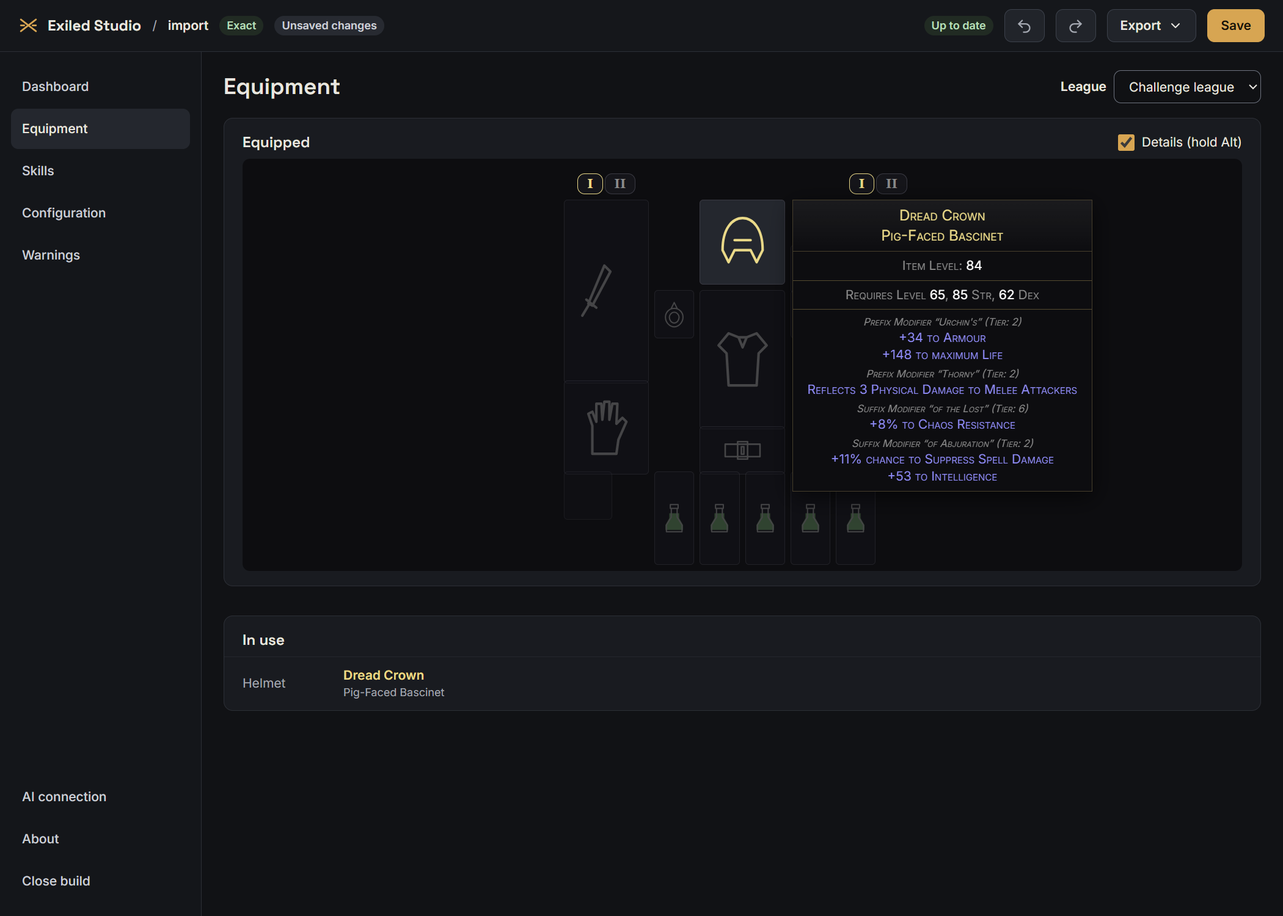
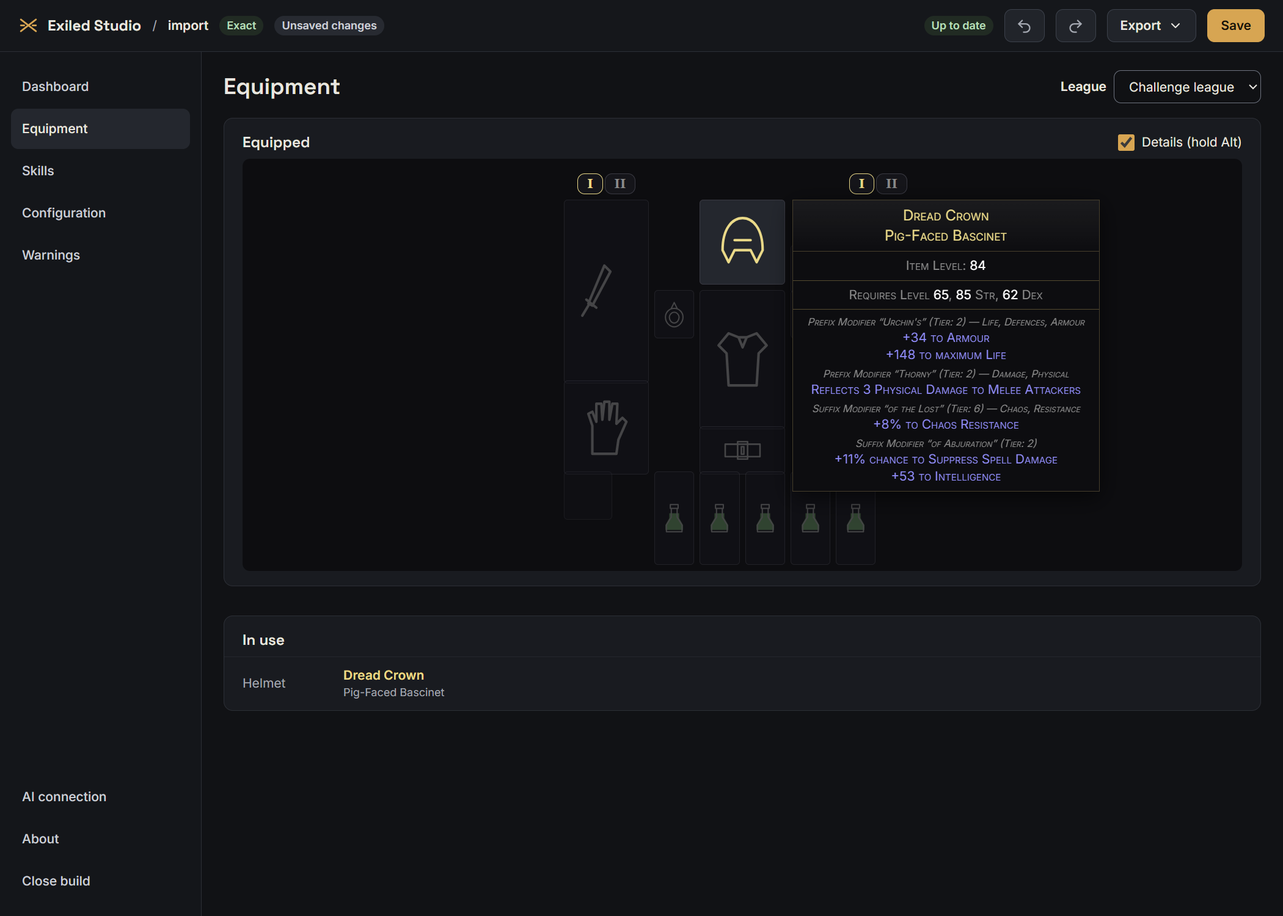
B-2 PR 2: mod tag names in the Alt headers; tiers checked on poedb
- TextRules.mod_tag_names: a per-game rule naming the tags the Alt view
  shows (unlisted tags hidden); PoE1's list in parity-cli, from real
  Ctrl+Alt+C copies of current-game items ("Life, Defences, Armour";
  resource and physical_damage hidden) and poedb, partly unconfirmed
- Game-truth tests: the six helmet tiers match poedb's Str/Dex helmet
  tables; a tag test
- Docs: Q-B2-2 research, the plan's header quote corrected, the
  maintainer's reminder tasks (Ctrl+Alt+C copies, bundle rebuild), the
  maintainer's answer to Q-UX-1 (the main skill), screenshot retaken

Changed region(s): [[0.619, 0.2147, 0.8357, 0.5213]]

diff --git a/crates/loom-app/tests/game_truth_affixes.rs b/crates/loom-app/tests/game_truth_affixes.rs
@@ -2,10 +2,12 @@
 //! maintainer's in-game screenshots (2026-11-14) of a Pig-Faced Bascinet
 //! with Urchin's, Athlete's, and Thorny prefixes and of the Genius, of the
 //! Lost, and of Abjuration suffixes. The screenshot shows `Prefix Modifier
-//! "Urchin's" (Tier: 2)`; the other tiers are the rule's
-//! (`loom_parser::import::affixes`, "Tier") and wait for the maintainer to
-//! confirm them from the same screenshots. The rolled values are ours, in
-//! each mod's range.
+//! "Urchin's" (Tier: 2)`. All six tiers also match poedb's tables for
+//! Str/Dex helmets (poedb.tw/us/Helmets_str_dex, read 2026-11-15 through
+//! the maintainer's browser: Urchin's T2 of 3 armour rows, Athlete's T2 of
+//! 10, Thorny T2 of 2, of the Genius T2 of 10, of the Lost T6 of 6, of
+//! Abjuration T2 of 5), a second reading of the same game data. The rolled
+//! values are ours, in each mod's range.
 //!
 //! The bundle is not in the repository (ADR-000); the tests are ignored and
 //! run with `LOOM_B2_BUNDLE` naming an unpacked PoE1 data schema 4 bundle
@@ -185,6 +187,43 @@ fn the_exported_helmet_should_head_only_the_mods_its_lines_allow_one_reading_of(
                 true,
                 &["+11% chance to Suppress Spell Damage"]
             ),
+        ]
+    );
+}
+
+#[test]
+#[ignore = "needs a real schema 4 bundle (LOOM_B2_BUNDLE)"]
+fn the_headers_should_name_the_tags_the_game_shows() {
+    let item = HELMET.replace("Implicits: 0", SPECS);
+    let mut session = Session::new(Store::new());
+    session.set_data(loom_app::GameData::load(&bundle()));
+    session.import_text(&build(&item), None).unwrap();
+    let tags: Vec<(String, Vec<String>)> = session
+        .item(1)
+        .unwrap()
+        .card
+        .affixes
+        .into_iter()
+        .map(|a| (a.name.unwrap_or_default(), a.tags))
+        .collect();
+    let row = |name: &str, tags: &[&str]| {
+        (
+            name.to_owned(),
+            tags.iter().map(|t| (*t).to_owned()).collect::<Vec<_>>(),
+        )
+    };
+    // Urchin's and Thorny as real Ctrl+Alt+C copies of current-game items
+    // print them (`resource` and `physical_damage` hidden); the others as
+    // poedb shows them (Q-B2-2: to confirm with copies from the game).
+    assert_eq!(
+        tags,
+        [
+            row("Urchin's", &["Life", "Defences", "Armour"]),
+            row("Athlete's", &["Life"]),
+            row("Thorny", &["Damage", "Physical"]),
+            row("of the Genius", &["Attribute"]),
+            row("of the Lost", &["Chaos", "Resistance"]),
+            row("of Abjuration", &[]),
         ]
     );
 }

diff --git a/tools/parity-cli/src/poe1.rs b/tools/parity-cli/src/poe1.rs
@@ -39,6 +39,10 @@ pub fn item_rules() -> ItemRules {
             property_ids: PROPERTY_IDS.iter().map(|i| (*i).to_owned()).collect(),
             label_ids: LABEL_IDS.iter().map(|i| (*i).to_owned()).collect(),
             granted_skill_wrapper: Some(GRAFT_WRAPPER_ID.to_owned()),
+            mod_tag_names: MOD_TAG_NAMES
+                .iter()
+                .map(|(id, name)| ((*id).to_owned(), (*name).to_owned()))
+                .collect(),
         },
     }
 }
@@ -58,6 +62,46 @@ pub const PROPERTY_IDS: [&str; 8] = [
 
 /// `ClientStrings` ids of property labels PoB writes as `<label>: <number>`.
 pub const LABEL_IDS: [&str; 1] = ["ZanaInfluencedItem"];
+
+/// The mod tags the game's Alt view names after a mod's header (B-2,
+/// Q-B2-2). `Tags.DisplayString` is empty for mod tags, so the names are
+/// ours. **Unconfirmed in part** (`dev/active/ux-improvements/
+/// b2-item-data-plan.md`, Q-B2-2): real Ctrl+Alt+C copies of current-game
+/// items show `Life, Defences, Armour` / `Evasion` / `Energy Shield` and
+/// `Damage, Physical`, with `resource` and `physical_damage` hidden; poedb
+/// also shows `Attribute`, `Chaos, Resistance`. The other plain gameplay
+/// words are named the same way until copies from the game confirm them;
+/// compound and internal tags (`elemental_damage`, `flat_life_regen`,
+/// `influence_mod`, ...) are left out, so not shown.
+pub const MOD_TAG_NAMES: [(&str, &str); 27] = [
+    ("life", "Life"),
+    ("mana", "Mana"),
+    ("defences", "Defences"),
+    ("armour", "Armour"),
+    ("evasion", "Evasion"),
+    ("energy_shield", "Energy Shield"),
+    ("damage", "Damage"),
+    ("physical", "Physical"),
+    ("elemental", "Elemental"),
+    ("fire", "Fire"),
+    ("cold", "Cold"),
+    ("lightning", "Lightning"),
+    ("chaos", "Chaos"),
+    ("resistance", "Resistance"),
+    ("attribute", "Attribute"),
+    ("attack", "Attack"),
+    ("caster", "Caster"),
+    ("speed", "Speed"),
+    ("critical", "Critical"),
+    ("minion", "Minion"),
+    ("ailment", "Ailment"),
+    ("bleed", "Bleed"),
+    ("poison", "Poison"),
+    ("aura", "Aura"),
+    ("curse", "Curse"),
+    ("gem", "Gem"),
+    ("block", "Block"),
+];
 
 /// The `ClientStrings` id of the graft skill wrapper (`Uses level {1} {0}`;
 /// Spike B PR B5g).

diff --git a/crates/loom-parser/src/import/affixes.rs b/crates/loom-parser/src/import/affixes.rs
@@ -49,9 +49,11 @@
 //! the base by its tags (an essence, an influence, a crafted row) has no
 //! tier.
 //!
-//! The affix name, level, and tag names come from a data schema 4 bundle
+//! The affix name, level, and tags come from a data schema 4 bundle
 //! ([`bundle::AFFIX_SCHEMA`]); an older bundle gives the header without
-//! them, and no tier.
+//! them, and no tier. Tag names: the game's text rules
+//! ([`loom_data::rules::TextRules::mod_tag_names`]) when it has them, else
+//! the tag table's display names.
 
 use std::collections::{BTreeMap, BTreeSet};
 
@@ -233,16 +235,32 @@ fn affix(
         level: entry.and_then(|e| e.level).filter(|_| with_data),
         tier: None,
         tags: match entry {
-            Some(e) if with_data => e
-                .implicit_tags
-                .iter()
-                .filter_map(|t| bundle.tags.iter().find(|n| n.id == *t))
-                .map(|n| n.display.clone())
-                .collect(),
+            Some(e) if with_data => tag_names(bundle, &e.implicit_tags),
             _ => Vec::new(),
         },
         lines,
     }
+}
+
+/// The names the Alt view shows for a mod's tags, in the mod's order: the
+/// game's rules' names when it has them (tags not named there are not
+/// shown), else the tag table's display names.
+fn tag_names(bundle: &Bundle, tags: &[String]) -> Vec<String> {
+    let names = &bundle.item_rules.text.mod_tag_names;
+    tags.iter()
+        .filter_map(|t| {
+            if names.is_empty() {
+                bundle
+                    .tags
+                    .iter()
+                    .find(|n| n.id == *t)
+                    .map(|n| n.display.clone())
+            } else {
+                names.iter().find(|(id, _)| id == t).map(|(_, n)| n.clone())
+            }
+        })
+        .filter(|n| !n.is_empty())
+        .collect()
 }
 
 /// The named specs with their bundle row and lines, in spec order (module

diff --git a/crates/loom-parser/tests/affixes.rs b/crates/loom-parser/tests/affixes.rs
@@ -203,3 +203,27 @@ fn an_older_bundle_should_give_headers_without_names_or_tags() {
         (None, None, 0)
     );
 }
+
+#[test]
+fn the_rules_tag_names_should_name_and_hide_tags() {
+    let mut bundle = common::bundle("bundle-poe1");
+    // The rules name `attack` only: `defences` is not shown.
+    bundle.item_rules.text.mod_tag_names = vec![("attack".to_owned(), "Attacks".to_owned())];
+    let body = item(vec![
+        spec("Prefix", "TestAccuracy1"),
+        spec("Suffix", "TestArmour1"),
+        line("+9 to Armour", &[("test_local_armour", 9)], false),
+        line("+15 to Accuracy", &[("test_accuracy_a", 15)], false),
+    ]);
+    let tags: Vec<_> = named_affixes(&body, &bundle)
+        .into_iter()
+        .map(|a| (a.mod_id, a.tags))
+        .collect();
+    assert_eq!(
+        tags,
+        [
+            ("TestAccuracy1".to_owned(), vec!["Attacks".to_owned()]),
+            ("TestArmour1".to_owned(), Vec::new()),
+        ]
+    );
+}

diff --git a/crates/loom-data/src/rules.rs b/crates/loom-data/src/rules.rs
@@ -60,6 +60,12 @@ pub struct TextRules {
     pub label_ids: Vec<String>,
     /// The wrapper of a granted skill's line (`{1}` level, `{0}` name).
     pub granted_skill_wrapper: Option<String>,
+    /// The mod tags the tooltip's Alt view names after a mod's header, and
+    /// their names (`(life, Life)`), for a game whose tag table has none;
+    /// tags not listed are not shown. Empty: the tag table's display
+    /// names are used.
+    #[serde(default, skip_serializing_if = "Vec::is_empty")]
+    pub mod_tag_names: Vec<(String, String)>,
 }
 
 impl ItemRules {

diff --git a/docs/ui/ux-walkthrough.md b/docs/ui/ux-walkthrough.md
@@ -79,7 +79,7 @@ The maintainer asked for a skills page like other planners' (socket groups as ca
 - **Stage picker** in the header (`loom_app::loadout`): each passive spec is a stage; item, skill, and config sets link to it by PoB's `{n}` title links, else by title, else the kind's only set. Choosing one switches all four as one undoable step (command `use-loadout`, error `APP_LOADOUT`). A build saved with mixed sets shows "Act 10 (sets mixed)". Titles show without PoB's colour codes and links.
 - **Skills page**: the active skill set's socket groups as cards; each gem with a colour mark (round for an active skill, square for a support; a token colour, no game art, ADR-000), level, quality, and on or off; the group on or off; the main skill chosen per gem ("Make main"); a skill set picker. Commands `use-skill-set`, `edit-gem`, `edit-socket-group` (error `APP_SKILL`), each one undoable step that reaches the PoB export.
 - **UX-11 fixed**: the main skill is the active skill the main group's `mainActiveSkill` names (Smite, not "Leap Slam, Faster Attacks, Smite, Momentum").
-- **Open question (Q-UX-1)**: the build keeps one main socket group number (`mainSocketGroup`) for every skill set, so after a stage switch it can point at another group (Smite's "Red Maps" shows Flesh and Stone). What PoB does on a skill set switch needs a check in PoB's source before Exiled Studio picks a rule.
+- **Open question (Q-UX-1)**: the build keeps one main socket group number (`mainSocketGroup`) for every skill set, so after a stage switch it can point at another group (Smite's "Red Maps" shows Flesh and Stone). What PoB does on a skill set switch needs a check in PoB's source before Exiled Studio picks a rule. **Answered by the maintainer 2026-11-15:** PoB handles the main skill poorly; Exiled Studio picks its own default instead of following PoB's number. An active skill gem is usually the main skill: supports, auras, and other gems that deal no damage weigh less. Among the rest, the skill with the highest damage is the default. Some builds deal damage with two or three skills together (Righteous Fire's burning, with Fire Trap igniting the enemy), so the damage shown should look for such pairs and combine them. Needs the calculation to compute those skills first: today only Ice Nova and Smite hits are computed (Phase 3 slice), so the rule can rank only the skills the engine computes and falls back to the active-gem weighting otherwise.
 - **Sockets and links** (maintainer's note with a pobb.in example, 2026-11-14): the Skills page is now one card per equipment slot, with the item's name and its sockets drawn as coloured circles joined by link bars (filled where a gem sits). Under the slot are its socket groups, with each active skill at the top and the supports that support it indented beneath. A support goes under the main skill when it supports that, else under the first active it supports, and notes "also supports …" for the others. Supports that support nothing in the group are listed apart and muted. A group whose gems span link groups is marked "Not all linked", and gems past the item's sockets are marked "without a socket". Groups without a slot go in "Other skills". The Equipment list draws the same sockets. Sources:
   - The links come from the game data's support rules (`loom_calc::poe1::skill::group_links`, PoB's `supports` with the types enabled supports add).
   - The sockets come from the item's `Sockets` line.
@@ -125,7 +125,7 @@ The maintainer asked for a skills page like other planners' (socket groups as ca
 - **League setting** (maintainer 2026-11-14, after asking for a game-version choice: a strict version rule would break Standard's legacy items and choice variants, so a league setting instead). Each build has a league, Challenge league (the default) or Standard, picked on the Equipment and Configuration pages as one undoable change and saved in the build document (build v1 `league`, additive, accepted 2026-11-14; PoB's format has no place for it, so a PoB export leaves it out). Variants are told apart by PoB's naming (`pob_item::variant_eras`): legacy versions (`Pre 3.7.0`, `Fire (Pre 3.14)`, and a bare `3.19.0` when another variant says `Current`), current versions (`Current`, `Frenzy Current`, or a bare version alone), and choices (`Fire`, `Life`). The picker is labelled "Item version" when the variants are versions and "Kind" when they are choices; legacy options say "(legacy)". In a challenge league an item on a legacy version gets a "Legacy" badge in the equipment list and a note on its card with "Use current version", which picks the matching current variant (`pob_item::current_variant`); in Standard the note only says Standard keeps it. Modifier tiers (tier 1 the best roll) are a separate thing, left for B-2. Checked in the real app: Crown of Eyes to Pre 3.7.0, the note, "Use current version", undo, Standard. Screenshot: [`35-legacy-version.png`](ux-walkthrough/35-legacy-version.png).
 - **B-2, first part: the equipment panel** (maintainer 2026-11-14: lay it out as the game's inventory and show the game's hover tooltip, from the maintainer's in-game screenshots). The Equipment page opens with the active item set laid out as the game's inventory: weapons tall at the sides with the I / II weapon swap above each, helmet, body armour and belt down the middle, amulet and rings beside them, gloves and boots below the weapons, five flasks along the bottom, and the game's square left of the flasks (drawn, nothing tied to it yet). Each item is a sprite drawn for this project (`ui/src/sprites.tsx`; no game art, ADR-000) in its rarity's colour, with its sockets over it as the game lays them out (two per row zigzagging on two-cell items, a link bar between linked sockets, a gem's socket solid) and its abyssal jewels as small buttons. A two-handed weapon shows faded in the off hand. Hovering or focusing an item shows the game's tooltip (`TooltipBody`): the name and base in the rarity's colour, quality and the defences PoB wrote, the level requirement, enchant, implicit and explicit lines in the game's colours (crafted and fractured apart), corrupted in red; holding Alt, or the "Details" switch, adds each roll's range (`+20(17-20)%`, app API `LineView.ranged`) and the item level. I / II is one undoable command (`UseWeaponSet`, PoB's `useSecondWeaponSet` on the active item set, which the calculation already reads). App API v1 additions, all additive: `BuildView.second-weapon-set`, `ItemSummary.item-class` (the base's class in the game data), `LineView.ranged`, `ChangeKind::WeaponSet`, `Command::UseWeaponSet`. Still to come for B-2: the Alt view's modifier headers (`Prefix Modifier "Thorny" (Tier: 2) — Damage, Physical`), Str/Dex/Int requirements with "(gem)", unique flavour text, and weapon and computed defence values; these need new game data (affix names, modifier levels, base requirements, flavour text) and a plan first. Screenshot: [`36-equipment-panel.png`](ux-walkthrough/36-equipment-panel.png).
 - **B-2, data part, PR 1** (plan `dev/active/ux-improvements/b2-item-data-plan.md`, reviewed 2026-11-14): data schema 4 (bundle mods carry their affix name and level, base items their drop level and Str/Dex/Int requirements from `ComponentAttributeRequirements`, a new PoE1-only extraction root, and `data/tags.json` the tags' display names; readers gate on `bundle::AFFIX_SCHEMA`); `loom_parser::import::affixes` finds the mods PoB names (`Prefix: {range:0.718}LocalBaseArmourAndEnergyShield4`) and the lines each made, anywhere in the item, a summed line under both mods only when the sum fits, a stale or edited spec dropped (display only: never resolution or the calculation). The tooltip's Alt view heads each mod's lines (`Prefix Modifier "Urchin's" — Life, Defences`), lines with no named mod after them; the requirement line names attributes (`Requires Level 65, 85 Str, 62 Dex`; the level as written, else the base's drop level). App API v1 additions, all additive: `ItemCard.affixes`, `ItemCard.requirements`. Checked in the real app on the schema 3 bundle here: the Devout Chainmail's hybrid prefix takes its two lines though another sits between them; names, tags, and attributes wait for the schema 4 bundle. **Maintainer, on the main workstation:** `extract` and `bundle` (schema 4), `bundle-check`, regenerate the overlays and calc-run records (`data_schema` is part of their identity), and a `data-parity` table for mod `affix`/`level` and base `req` against PoB's data. **Done 2026-11-14** (B-2 data run, `docs/ui/b2-data/`): a schema 4 bundle from build 26530219, `data-parity` tables `mod_affixes` (0 differences) and `base_requirements`, no calculation changed; the run found the converter read no attribute requirements (fixed). **Next (PR 2):** mods PoB does not name (inferred with the parser's mod filter) and tiers, proven against game-truth fixtures from the maintainer's screenshots; implicit and crafted headers.
-- **B-2, data part, PR 2** (plan `dev/active/ux-improvements/b2-item-data-plan.md`, "PR 2, as built"): the Alt view heads the mods PoB does not name when the lines allow one reading (`loom_parser::import::affixes::item_affixes`: every set of rows that can be on the base and whose summed ranges hold the lines; a mod is headed only when it is in every set), implicit lines (`Implicit Modifier`), and crafted lines (`Master Crafted Suffix Modifier "Name"`), each prefix and suffix with its tier on the base (1 plus the higher-level rows of its mod type that spawn there). Game truth: Urchin's Tier 2 on a Pig-Faced Bascinet; the helmet's other five tiers wait for the maintainer's confirmation. A new item rule, `affix_generations`, names prefix and suffix generation types; the bundle rebuild adds it. App API v1 additions, all additive: `AffixKind::Implicit`, `AffixView.crafted`, `AffixView.inferred`. Checked in the real app on a scratch copy of the schema 4 bundle with the rule patched in: the helmet as the game exports it shows Urchin's (Tier 2) over the armour and the summed life line, Thorny, of the Lost, and of Abjuration; the intelligence line has two readings (an essence row) and stays unheaded. Found: mod tags have no display names in the bundle (Q-B2-2). Screenshot: [`39-alt-view-tiers.png`](ux-walkthrough/39-alt-view-tiers.png).
+- **B-2, data part, PR 2** (plan `dev/active/ux-improvements/b2-item-data-plan.md`, "PR 2, as built"): the Alt view heads the mods PoB does not name when the lines allow one reading (`loom_parser::import::affixes::item_affixes`: every set of rows that can be on the base and whose summed ranges hold the lines; a mod is headed only when it is in every set), implicit lines (`Implicit Modifier`), and crafted lines (`Master Crafted Suffix Modifier "Name"`), each prefix and suffix with its tier on the base (1 plus the higher-level rows of its mod type that spawn there). Game truth: Urchin's Tier 2 on a Pig-Faced Bascinet; the helmet's other five tiers wait for the maintainer's confirmation. A new item rule, `affix_generations`, names prefix and suffix generation types; the bundle rebuild adds it. App API v1 additions, all additive: `AffixKind::Implicit`, `AffixView.crafted`, `AffixView.inferred`. Checked in the real app on a scratch copy of the schema 4 bundle with the rule patched in: the helmet as the game exports it shows Urchin's (Tier 2) — Life, Defences, Armour over the armour and the summed life line, Thorny — Damage, Physical, of the Lost — Chaos, Resistance, and of Abjuration; the intelligence line has two readings (an essence row) and stays unheaded. Mod tags have no display names in the bundle, so a per-game text rule names the ones the Alt view shows (`— Life, Defences, Armour`, as current-game Ctrl+Alt+C copies print it; partly unconfirmed, Q-B2-2). Screenshot: [`39-alt-view-tiers.png`](ux-walkthrough/39-alt-view-tiers.png).
 - **UX-05**: errors lead with words and what to do next. The code shows small, as "Code X". Every code has a message, and an unknown code falls back to its family's message (`error.family.*`), then to a generic one. Reason chips use words too.
 - **UX-06**: editing an item that is not in use says that no number changes because the item is not in the active item set (the editor half was done with UX-02).
 - **UX-10**: stat IDs sit behind a "Show stat IDs" toggle and are marked stale while the line is being edited.

diff --git a/docs/handoff/SUCCESSOR-HANDOFF.md b/docs/handoff/SUCCESSOR-HANDOFF.md
@@ -28,9 +28,9 @@ Each PR is done in its own fresh session; the repository is the only memory. Eve
 ## Current state (updated 2026-11-15, B-2 data part PR 2, open, branch `feat/b2-inferred-mods`, base `dev`; start page B PR A, PR #111, merged into `dev` 2026-11-15 02:08 UTC as `9726393`; B-2 data run PR #110 merged into `dev` 2026-11-14 22:34 UTC as `8965862`; UX walkthrough PR #109 merged into `dev` 2026-11-14 20:25 UTC as `3102ad2`; the UX brief PR #108 merged into `dev` 2026-11-14 14:35 UTC as `1325bb8`; passive tree and Phase 5 plan PR #107, merged into `dev` 2026-11-14 14:33 UTC as `198ba36`; **Phase 4 gate met**)
 - **B-2 data part, PR 2: inferred mods and tiers (open, branch `feat/b2-inferred-mods`, base `dev`).** Merge check at the start: #111 merged into `dev` 2026-11-15 02:08 UTC (squash `9726393`). Plan `dev/active/ux-improvements/b2-item-data-plan.md`, "PR 2"; walkthrough `docs/ui/ux-walkthrough.md`, "B-2, data part, PR 2". Display only, no calculation changed.
   - `loom_parser::import::affixes::item_affixes`: the mods PoB names, then the mods the other lines allow one reading of (every set of rows that can be on the base and whose summed ranges hold the lines; a row is headed only when it is in every set), implicit lines from the base's implicit rows, crafted lines from bench rows; the tier, 1 plus the rows of the same mod type, domain, and generation with a higher level that spawn on the base's tags.
-  - **Game truth:** Urchin's on a Pig-Faced Bascinet is Tier 2 (the maintainer's screenshot), and the rule gives it. The other five mods of that helmet (Athlete's 2, Thorny 2, of the Genius 2, of the Lost 6, of Abjuration 2) are the rule's numbers: **maintainer, confirm them from the same screenshots** (`crates/loom-app/tests/game_truth_affixes.rs`, ignored; run with `LOOM_B2_BUNDLE`).
-  - **New item rule** `ModRules.affix_generations` (prefix and suffix generation types; `parity-cli` writes PoE1 and PoE2's). The schema 4 bundle predates it, so it infers no prefix or suffix: **maintainer, rebuild the bundle** (`bundle`, `bundle-check`); no data schema bump, no calculation reads it. The real-app check used a scratch copy with the field patched in (`docs/ui/ux-walkthrough/39-alt-view-tiers.png`).
-  - **Found:** the bundle's `data/tags.json` has 20 rows, all monster tags: `Tags.DisplayString` is empty for mod tags, so the Alt headers show no tag names ("Life, Defences"). Where the game keeps those names is open (Q-B2-2 in the plan).
+  - **Game truth:** Urchin's on a Pig-Faced Bascinet is Tier 2 (the maintainer's screenshot), and the rule gives it. The other five mods of that helmet (Athlete's 2, Thorny 2, of the Genius 2, of the Lost 6, of Abjuration 2) are the rule's numbers, and all six match poedb's Str/Dex helmet tables (read 2026-11-15 through the maintainer's browser) (`crates/loom-app/tests/game_truth_affixes.rs`, ignored; run with `LOOM_B2_BUNDLE`).
+  - **New item rules** `ModRules.affix_generations` (prefix and suffix generation types; `parity-cli` writes PoE1 and PoE2's) and `TextRules.mod_tag_names`. The schema 4 bundle predates them, so it infers no prefix or suffix and names no tag: **maintainer, rebuild the bundle** (`bundle`, `bundle-check`); no data schema bump, no calculation reads them. The real-app check used a scratch copy with the field patched in (`docs/ui/ux-walkthrough/39-alt-view-tiers.png`).
+  - **Found:** the bundle's `data/tags.json` has 20 rows, all monster tags: `Tags.DisplayString` is empty for mod tags. **Tag names shown now, partly unconfirmed** (maintainer 2026-11-15): a per-game text rule `TextRules.mod_tag_names` (PoE1: `MOD_TAG_NAMES`, `tools/parity-cli/src/poe1.rs`) names the shown tags, from real Ctrl+Alt+C copies of current-game items found on GitHub (`— Life, Defences, Armour`; `resource` and `physical_damage` hidden) and poedb; unlisted tags are hidden (Q-B2-2 in the plan). Maintainer reminder: Ctrl+Alt+C copies from the current game (`ux-improvements-notes.md`, "Maintainer tasks").
   - Evidence: `cargo test --workspace`, clippy, wasm32 build of the core crates, `schema-gen --check`, `pnpm test` (46), typecheck, lint, format; `inferred_affixes` (6 synthetic tests); the two game-truth tests on the real bundle; the real app.
 - **Start page B, PR A (PR #111, merged into `dev` 2026-11-15 as `9726393`).** Merge check at the start: #110 (B-2 data run) merged into `dev` 2026-11-14 22:34 UTC (squash `8965862`). The schema 4 bundle is not on this workstation yet (not in OneDrive here; the Google Drive folder is empty), so B-2's data PR 2 waits; the maintainer said to do the UI work that does not need it. Plan `dev/active/ux-improvements/start-page-plan.md` (plan-reviewer: proceed with changes; split into PR A and PR B).
   - **What:** `docs/ui/ux-walkthrough.md`, "Start page B, PR A": the command bar, New build (`new-build`, `Session::new_build`), Ctrl N/V/O, files dropped anywhere (`loom-tauri`: `dropped`, `open_dropped`, `loom://drop`), asking before any of them replaces unsaved changes, the footer data line with no error up front (UX-17), recent builds with class, ascendancy, level, and skill (UX-20), PoB's "None" ascendancy hidden.
@@ -632,7 +632,7 @@ Each PR is done in its own fresh session; the repository is the only memory. Eve
 - **Second workstation** (since 2026-11-14; repo at `%USERPROFILE%\source\repos\Exiled-Studio`, no `D:` drive, no game install, no legacy PoB checkout): Rust 1.99.1, Node 26.13.1, pnpm 12.18.0, VS 2026 Community with only the MSVC x64 tools and Windows 11 SDK 10.0.26100, `tauri-driver` 2.1.0, `msedgedriver` in `%LOCALAPPDATA%\msedgedriver` (must match WebView2 after each Edge update). The bundle is copied in by the maintainer (OneDrive). Agent shells need the same `PATH` prefix as above, plus `$env:APPDATA\npm` for pnpm.
 
 ## Next action
-1. **Next step: the rest of the UX sprint.** B-2's data PR 2 is open (branch `feat/b2-inferred-mods`, base `dev`); check it merged into `dev` before branching. Maintainer actions it leaves: rebuild the PoE1 bundle so its item rules carry `affix_generations`, confirm the five predicted tiers from the screenshots, and Q-B2-2 (where the game names mod tags). The schema 4 bundle is on this workstation (`local/b2/bundle-poe1-a`). Then, in this order unless the maintainer changes it: **Start page PR B** (`start-page-plan.md`, review outcome: installed bundles under `bundles/` found and switchable with `use-bundle`, the folder picker labelled unsigned (development), loaded bundles cached by ID, a build pinned to another installed bundle offered it, the P-e text's `manifest.json` corrected to `bundle.json`). Still open for the maintainer to pick: a catalogue of PoB's config options (labels, choices) for the configuration page, UX-14, B-5 (dashboards), UX-26 (ADR-011 check), Q-UX-1, and UX-19's other half (undo history across a restore). Record each pick in `dev/active/ux-improvements/ux-improvements-notes.md`. To drive the real app for screenshots: build with `--features e2e,tauri/custom-protocol`, start `tauri-driver --native-driver <msedgedriver.exe>` from PowerShell with `LOOM_E2E_DIR`, `LOOM_DATA_DIR`, `LOOM_BUNDLE_DIR` set (as `ui/e2e/run.ps1`), and talk W3C WebDriver on `127.0.0.1:4444` (in Git Bash, set `MSYS_NO_PATHCONV=1` for xpaths).
+1. **Next step: the rest of the UX sprint.** B-2's data PR 2 is open (branch `feat/b2-inferred-mods`, base `dev`); check it merged into `dev` before branching. Maintainer actions it leaves (`ux-improvements-notes.md`, "Maintainer tasks"): rebuild the PoE1 bundle so its item rules carry `affix_generations` and `mod_tag_names`; Ctrl+Alt+C copies of about five current-game items; and Q-B2-2 (where the game names mod tags; the current game shows "Life, Defences, Armour" for Urchin's and hides `resource` and `physical_damage`, from real Ctrl+Alt+C copies on GitHub; the other internal tags are unknown; Ctrl+Alt+C copies from the current game settle it). The schema 4 bundle is on this workstation (`local/b2/bundle-poe1-a`). Then, in this order unless the maintainer changes it: **Start page PR B** (`start-page-plan.md`, review outcome: installed bundles under `bundles/` found and switchable with `use-bundle`, the folder picker labelled unsigned (development), loaded bundles cached by ID, a build pinned to another installed bundle offered it, the P-e text's `manifest.json` corrected to `bundle.json`). Still open for the maintainer to pick: a catalogue of PoB's config options (labels, choices) for the configuration page, UX-14, B-5 (dashboards), UX-26 (ADR-011 check), Q-UX-1, and UX-19's other half (undo history across a restore). Record each pick in `dev/active/ux-improvements/ux-improvements-notes.md`. To drive the real app for screenshots: build with `--features e2e,tauri/custom-protocol`, start `tauri-driver --native-driver <msedgedriver.exe>` from PowerShell with `LOOM_E2E_DIR`, `LOOM_DATA_DIR`, `LOOM_BUNDLE_DIR` set (as `ui/e2e/run.ps1`), and talk W3C WebDriver on `127.0.0.1:4444` (in Git Bash, set `MSYS_NO_PATHCONV=1` for xpaths).
 2. **Then: implement the passive tree and Phase 5 plan (merged with #107) in follow-up PRs** from `dev`, one per session, in the plan's commit order (P5, P1, T1a, ...; `dev/active/passive-tree-and-phase-5/`), each PR recording which steps it closes; the cut line marks the steps that come first. Start: the first unticked step of `dev/active/passive-tree-and-phase-5/passive-tree-and-phase-5-tasks.md`, in the plan's commit order; keep the handoff and tasks file true on every push. Past the cut line, the remaining steps may become their own PRs (maintainer 2026-11-14).
 2. **Q12, decided for now, open and not blocking** (`docs/phase-3/attack-hits.md`, Q12): PoB's order for the skill's multiplier; the maintainer's 2026-11-13 reading puts global speed after the floor. When Q12 closes, re-examine the Q11 entries (DIV-0001 onward that name Q11).
 3. **Open for the maintainer (earlier):** Q1 (a pruned derived PoE1 bundle in CI) on its default, no for now; P3-2's `not-carried` item settled (the 8 Vaal tag rows stay `patch-delta`, `docs/phase-3/data-parity.md`).

diff --git a/dev/active/ux-improvements/b2-item-data-plan.md b/dev/active/ux-improvements/b2-item-data-plan.md
@@ -7,7 +7,7 @@ Status: reviewed 2026-11-14 (plan-reviewer: proceed with changes; this version t
 The tooltip's Alt view shows what the game shows with Alt held (maintainer's screenshots, 2026-11-14):
 
 ```
-Prefix Modifier "Urchin's" (Tier: 2) — Life, Defences
+Prefix Modifier "Urchin's" (Tier: 2) — Life, Defences, Armour
 +34(33-48) to Armour
 +28(24-28) to maximum Life
 ```
@@ -40,12 +40,12 @@ and the requirement line names attributes: `Requires Level 65, 85 Str, 62 Dex`. 
 
 - **Inference** (`loom_parser::import::affixes::item_affixes`): the lines no named mod took, in three pools (explicit, crafted, unflagged implicit). Candidate rows fit the line on the base and can be on it (explicit: spawn on the base's tags, an essence for its class or a legacy essence row of unknown classes, one of the item's influences, every row when the base's tags are unknown; crafted: any fitting row; implicit: the base's own implicit rows and rows that spawn), every row stat shown on a pool line. Lines no row spans are searched apart: every set of rows of distinct mod types whose summed ranges hold each line's value is an explanation, and a row is headed only when it is in every explanation (at most 8 rows and 20,000 steps per group, else no header). Unique items get no explicit inference.
 - **Kind:** a new item rule, `ModRules.affix_generations` (prefix and suffix generation types, PoE1 and PoE2 both 1 and 2), written by `parity-cli`; rules without it infer no prefix or suffix. Not a data schema bump: rules, and no calculation reads it. The maintainer's bundle rebuild adds it.
-- **Tier:** 1 plus the rows of the same mod type, domain, and generation with a higher level that spawn on the base's tags (no essence or influence rows); none for a row that does not spawn there, crafted rows, and implicits. Game truth: Urchin's Tier 2 on a Pig-Faced Bascinet (Nautilus's above; Crocodile's does not spawn on helmets). The helmet's five other mods give Athlete's 2, Thorny 2, of the Genius 2, of the Lost 6, of Abjuration 2: **to be confirmed by the maintainer** from the same screenshots (`crates/loom-app/tests/game_truth_affixes.rs`, ignored, `LOOM_B2_BUNDLE`).
+- **Tier:** 1 plus the rows of the same mod type, domain, and generation with a higher level that spawn on the base's tags (no essence or influence rows); none for a row that does not spawn there, crafted rows, and implicits. Game truth: Urchin's Tier 2 on a Pig-Faced Bascinet (Nautilus's above; Crocodile's does not spawn on helmets). The helmet's five other mods give Athlete's 2, Thorny 2, of the Genius 2, of the Lost 6, of Abjuration 2, and all six match poedb's Str/Dex helmet tables (read 2026-11-15 through the maintainer's browser), which also number Urchin's armour and evasion rows apart, as the mod-type key does (`crates/loom-app/tests/game_truth_affixes.rs`, ignored, `LOOM_B2_BUNDLE`).
 - **Strict on purpose:** on the helmet as the game exports it, Athlete's and of the Genius get no header: a legacy essence row of unknown classes (`IncreasedLifeEssenceChest1`) also makes the summed life line with Urchin's, and an essence row (`IntelligenceEssence7`) also holds 53 Intelligence.
 - **Review (code-architecture-reviewer, 2026-11-15), taken:** a row's stat a line carries with no shown value (hidden, lookup) counts as on the item, so such a hybrid is a reading too; mod types the named mods hold are not inferred again; `named` reads selected lines only; a stat twice on one line no longer drops it; a unique's implicits only from its base's rows; no bases, no inference. Not checked, documented: the number of prefixes and suffixes (it can only take a header away). Measured: under 0.1 ms per item view in a release build on the real bundle, so nothing is cached.
 - **Crafted rank** is left out: no game-truth fixture for its direction yet. Headers read `Master Crafted Suffix Modifier "Name"`.
 - **App API v1, additive:** `AffixKind::Implicit`, `AffixView.crafted`, `AffixView.inferred`; `tier` filled.
-- **Q-B2-2 (open, found by this PR):** the bundle's `data/tags.json` holds 20 monster tags only: `Tags.DisplayString` is empty for mod tags (`life`, `defences`), so headers show no tag names. Where the game keeps the names the Alt view prints (it shows "Life, Defences" for a mod tagged `resource, life, defences, armour`) is to be found on the main workstation.
+- **Q-B2-2 (open, found by this PR):** the bundle's `data/tags.json` holds 20 monster tags only: `Tags.DisplayString` is empty for mod tags (`life`, `defences`), so headers show no tag names. Where the game keeps the names the Alt view prints is to be found on the main workstation. Leads (2026-11-15): RePoE's exporter reads `Tags.DisplayString` too, so no public export has them; poedb shows each mod's tag IDs in data order, title-cased, without `resource` and `physical_damage` (Urchin's "Life, Defences, Armour"; Athlete's "Life"; Thorny "Damage, Physical"; of the Genius "Attribute"; of the Lost "Chaos, Resistance"; of Abjuration none). **Research 2026-11-15 (the maintainer's browser):** the current game shows "Life, Defences, Armour" for Urchin's. Real Ctrl+Alt+C item copies on GitHub (the copy carries the Alt header lines): `Prefix Modifier "Nautilus's" (Tier: 1) — Life, Defences, Armour` and `"Fecund" (Tier: 2) — Life` (timeloop-vault/poe-inspect fixtures, March 2026), `"Urchin's" (Tier: 3) — Life, Defences, Armour` and `"Carapaced" (Tier: 6) — Defences, Armour` (poe-inspect), `"Beetle's" (Tier: 6) — Defences, Armour` and `Master Crafted Prefix Modifier "Upgraded" — Life, Defences, Armour` (PoB's `TestItemParse_spec.lua`), `"Fawn's" — Life, Defences, Evasion`, `"Prior's" — Life, Defences, Energy Shield`, `"Thorny" (Tier: 4) — Damage, Physical`. Copies from 2022 and before lack the Armour/Evasion/Energy Shield tag; the plan's earlier "— Life, Defences" quote was of that older form (it matches a hand-written comment in JIRPOS/PathOfPriceCheck), corrected above. So the game hides `resource` and `physical_damage`, as poedb does; what it does with the other compound or internal tags (`elemental_damage`, `caster_damage`, `chaos_damage`, `flat_life_regen`, `dot_multi`, `influence_mod`, `red_herring`, ...) is unknown. The only stated rule is 3.11.1b's patch note (tags shown were "just the tags used by Harvest and Fossil crafting", to be improved). The definitive check: copy current-game items with Ctrl+Alt+C, which also gives game-truth fixtures for every header (kind, name, tier, tags). **Shown now, partly unconfirmed (maintainer 2026-11-15: "show tags now"):** a per-game text rule `TextRules.mod_tag_names` names the tags the Alt view shows (tags not listed are hidden); PoE1's list is `MOD_TAG_NAMES` in `tools/parity-cli/src/poe1.rs` (27 plain gameplay words; the copies confirm Life, Defences, Armour, Evasion, Energy Shield, Damage, Physical; poedb shows Attribute, Chaos, Resistance; the rest by the same pattern). Compound and internal tags are left out. The maintainer's reminder task (Ctrl+Alt+C copies) is in `ux-improvements-notes.md`, "Maintainer tasks".
 
 ## Later
 

diff --git a/dev/active/ux-improvements/ux-improvements-notes.md b/dev/active/ux-improvements/ux-improvements-notes.md
@@ -21,6 +21,13 @@ Four minimalist directions on the canvas https://claude.ai/artifact/5993AyXC3qZC
 - `stat_descriptions/`: the game's text templates that turn stat IDs into the lines players read and back (import resolution, ADR-015).
 - No art, audio, or raw game files (ADR-000, ADR-005).
 
+## Maintainer tasks (reminders; keep until done)
+- [ ] **Ctrl+Alt+C copies from the current game** (asked 2026-11-15, for Q-B2-2): copy about five items with the game's advanced copy (Ctrl+Alt+C) and paste them into a session, ideally with elemental damage ("Adds # to # Fire Damage"), spell (caster) damage, chaos damage, life regeneration, and an influenced mod. They settle which tags the Alt view shows and their names (today `MOD_TAG_NAMES` in `tools/parity-cli/src/poe1.rs`, partly unconfirmed), and give game-truth fixtures for kinds, names, and tiers.
+- [ ] **Rebuild the PoE1 bundle** (`extract` is not needed; `bundle`, then `bundle-check`) so its item rules carry `affix_generations` and `mod_tag_names` (B-2 PR 2).
+
+## Maintainer answers (2026-11-15)
+- **Q-UX-1 (the main skill):** do better than PoB. Default the main skill to an active skill gem (supports, auras, and other gems that deal no damage weigh less), and among those to the highest-damage skill. Look for skills that deal damage together (Righteous Fire's burning with Fire Trap's ignite) and show their combined damage. Limited by what the engine computes (Ice Nova and Smite hits today): rank what is computed, else use the active-gem weighting. Not yet scheduled as a PR (`docs/ui/ux-walkthrough.md`, Q-UX-1).
+
 ## Bearing on later plans
 - Note 1 overlaps Phase 5 P-d in #107's plan (a signed bundle shipped with the installer, installed into the app data folder, chosen automatically). This side project can do the development-side part now (find and remember installed bundles without a folder picker) without the signing.
 - Note 5 is the "dashboard tabs and Customize" item the UI fidelity PR left for later (`docs/ui/fidelity/README.md`).
